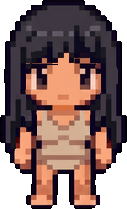
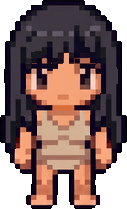
fix(char): 긴 생머리 2차 - 앞머리 눈썹까지 + 후면 밑단 (누적 5441px) (sw v269)
1차(06ec8c6)는 절반만 고쳤다. 대표: "거의 변화가 없다, 내가 말한 부분 그대로다."
실측하니 정면 2437px / 후면 1794px 가 남아 있었다. 왜 못 되살렸는지 사유별로 갈랐다
(char/diag_blocked.py).

★두 가지 원인:
1. **몸 외곽선 오탐** - 남은 후보 2437px 중 1971px 이 팔·다리·발 윤곽선이었다.
   원본 시트의 몸 외곽선도 검정이라 '밝기 < 107' 조건만으로는 머리카락과 구분이 안 된다.
2. **KEEP(얼굴 앞면)이 앞머리를 막고 있었다** - 긴 생머리는 앞머리가 눈썹까지 내려오는
   스타일인데, 빡빡이 얼굴을 지키려고 만든 규칙이 그 스타일을 잘라내고 있었다.
   세미리프컷 정면 뒷머리와 같은 구조의 문제다.

조치 = 조건 하나로 둘 다 해결:
  **base 가 그 자리에 어두운 픽셀(밝기<70)을 그리면 손대지 않는다.**
  - 몸 외곽선 오탐이 걸러진다 (base 가 이미 그리므로 헤어가 다시 그릴 이유가 없다)
  - 눈·눈썹·입이 자동으로 보호된다 → 그래서 KEEP 을 열어도(--open-keep) 안전하다
  실제로 눈 깨짐 없이 앞머리가 눈썹까지 내려왔다(7-30 눈알 깨짐 회귀와 다름).
  --passes N: 되살린 헤어에 붙은 다음 줄이 또 조건을 통과한다. 3회로 수렴.

결과: 정면 +612 후면 +1156 (1차 포함 누적 5441px). 3열 복제로 통일, 내부 구멍 8px,
썸네일 재생성. 좌·우는 대표가 손본 상태 그대로 두었다.

diff --git a/index.html b/index.html
@@ -1,5 +1,5 @@
 <!DOCTYPE html>
-<!-- cache-bust: v20260731006 -->
+<!-- cache-bust: v20260731007 -->
 <html lang="ko">
 <head>
 <meta charset="UTF-8">
@@ -2041,7 +2041,7 @@ window.CHAR_ITEMS = [
   { id: 'shoes_black', slot: 'shoes', body: 'human', name: '검정 러닝화', price: 0, sheet: 'char/items/shoes_black.png', thumb: 'char/items/shoes_black_thumb.png' }
 ];
 // 아이템 이미지 캐시버전 — 아이템 시트/썸네일 바꿀 때마다 올리면 SW 캐시 무시하고 새로 받음
-window._ITEM_V = 85;
+window._ITEM_V = 86;
 window._iv = function (u) { return u ? (u + (u.indexOf('?') < 0 ? '?v=' : '&v=') + (window._ITEM_V || 1)) : u; };
 window.CHAR_FREE = ['hair_short', 'top_tee', 'mask_simple'];
 window.CHAR_SHAPES = {

diff --git a/sw.js b/sw.js
@@ -1,7 +1,7 @@
 // 배포마다 이 버전을 올려야 자동 새버전 적용(새로고침)이 동작함
-const CACHE_NAME = 'murpy-v268';
-const STATIC_CACHE = 'murpy-static-v268';
-const CDN_CACHE = 'murpy-cdn-v268';
+const CACHE_NAME = 'murpy-v269';
+const STATIC_CACHE = 'murpy-static-v269';
+const CDN_CACHE = 'murpy-cdn-v269';
 // 이미지 캐시는 버전 안 붙임 → 코드/HTML 배포해도 유지(URL이 곧 버전)
 const IMG_CACHE = 'murpy-img';
 

diff --git a/char/diag_blocked.py b/char/diag_blocked.py
@@ -1,0 +1,87 @@
+# -*- coding: utf-8 -*-
+"""원본에 있는데 아직 못 되살린 머리카락이 **무엇에 막혀 있는지** 사유별로 가른다.
+
+복원 조건은 4개다. 어느 조건이 얼마나 막고 있는지 알아야 뭘 풀지 정할 수 있다.
+  ① KEEP(얼굴 앞면·귀 보호)   ② 기존 헤어에서 떨어져 있음   ③ 밝기 상한   ④ 이미 있음
+
+    python char/diag_blocked.py hair_f_long.png human_f 0 1
+"""
+import os
+import sys
+
+import numpy as np
+from PIL import Image, ImageDraw, ImageFont
+from scipy import ndimage
+
+sys.path.insert(0, os.path.dirname(os.path.abspath(__file__)))
+from base_regions import regions as base_regions   # noqa: E402
+from build_hair_layer import (BALD_M, BALD_F, CW, CH, ALPHA_BIN,   # noqa: E402
+                              Norm, load, pad_img, binarize)
+from restore_from_source import SOURCE, is_skin, hair_lum_max, GROW   # noqa: E402
+
+HERE = os.path.dirname(os.path.abspath(__file__))
+ROWS = ["정면", "후면", "좌", "우"]
+BASEW = {"human": "walk.png", "human_f": "walk_female.png"}
+BALD = {"human": BALD_M, "human_f": BALD_F}
+SCALE = 5
+
+
+def main():
+    name, body = sys.argv[1], sys.argv[2]
+    rows = [int(x) for x in sys.argv[3:]] or [0, 1]
+    walk = np.asarray(Image.open(os.path.join(HERE, BASEW[body])).convert("RGBA")).astype(int)
+    cur = np.asarray(Image.open(os.path.join(HERE, "items", name)).convert("RGBA")).astype(int)
+    norm = Norm(load(BALD[body]))
+    src_pad = pad_img(load(SOURCE[name]))
+    lum = hair_lum_max(cur)
+    print(f"■ {name}  머리색 밝기상한 {lum:.0f}")
+
+    tiles = []
+    for r in rows:
+        worn = binarize(norm.cell(src_pad, r, 0))
+        wm = ((worn[:, :, 3] >= ALPHA_BIN) & ~is_skin(worn)
+              & (worn[:, :, :3].mean(axis=2) < lum))
+        bc = walk[r * CH:(r + 1) * CH, 0:CW]
+        hc = cur[r * CH:(r + 1) * CH, 0:CW]
+        h = hc[:, :, 3] >= ALPHA_BIN
+        _must, keep = base_regions(bc, r, BASEW[body], 0)
+        near = ndimage.binary_dilation(h, np.ones((3, 3), bool), iterations=GROW)
+
+        missing = wm & ~h
+        by_keep = missing & keep
+        by_far = missing & ~keep & ~near
+        ok = missing & ~keep & near
+        print(f"\n  {ROWS[r]}  아직 없는 머리카락 {int(missing.sum())}px")
+        print(f"    ① KEEP(얼굴·귀)에 막힘        {int(by_keep.sum()):5d}px")
+        print(f"    ② 기존 헤어에서 떨어져 있음    {int(by_far.sum()):5d}px")
+        print(f"    ③ 조건 통과인데 남음(재적용요)  {int(ok.sum()):5d}px")
+
+        vis = bc.copy()
+        vis[h] = hc[h]
+        vis[by_far] = [255, 160, 0, 255]
+        vis[by_keep] = [255, 0, 255, 255]
+        vis[ok] = [0, 255, 90, 255]
+        tiles.append((f"{ROWS[r]}", vis))
+
+    pad, lbl = 8, 26
+    canvas = Image.new("RGB", ((CW + pad) * len(tiles) + pad, CH + lbl + pad * 2), (248, 248, 248))
+    for i, (_t, a) in enumerate(tiles):
+        canvas.paste(Image.fromarray(a.astype(np.uint8), "RGBA").convert("RGB"),
+                     (pad + i * (CW + pad), lbl + pad))
+    big = canvas.resize((canvas.width * SCALE, canvas.height * SCALE), Image.NEAREST)
+    d = ImageDraw.Draw(big)
+    try:
+        font = ImageFont.truetype("C:/Windows/Fonts/malgunbd.ttf", 30)
+    except OSError:
+        font = ImageFont.load_default()
+    for i, (t, _a) in enumerate(tiles):
+        d.text(((pad + i * (CW + pad)) * SCALE, 6), t, fill=(20, 20, 20), font=font)
+    d.text((10, big.height - 34), "마젠타=얼굴·귀 보호에 막힘  주황=헤어에서 떨어짐  초록=통과",
+           fill=(90, 90, 90), font=font)
+    p = os.path.join(HERE, "_diag", f"blocked_{name}")
+    big.save(p)
+    print(f"\n-> {p}")
+
+
+if __name__ == "__main__":
+    main()

diff --git a/char/restore_from_source.py b/char/restore_from_source.py
@@ -40,6 +40,10 @@ BALD = {"human": BALD_M, "human_f": BALD_F}
 GROW = 2          # 기존 헤어에서 이만큼 안에 붙어 있는 것만 되살린다
 CLOSE = 3         # 실루엣 안쪽으로 파인 자리만 (0이면 끔). --close 로 바꾼다
 ROWSEL = []       # 특정 방향만 (--rows 0,1). 비면 전 방향
+BASE_DARK = 70    # base 가 이보다 어두우면 외곽선·이목구비 → 손대지 않는다
+PASSES = 1        # 반복 횟수. 되살린 헤어에 붙은 다음 줄이 또 조건을 통과한다 (--passes)
+OPEN_KEEP = False  # 정면 앞머리처럼 KEEP 이 스타일을 막을 때 (--open-keep).
+#                    base_dark 가 눈·눈썹·입을 대신 지키므로 열어도 안전하다
 
 SOURCE = {
     "hair_f_long.png": os.path.join(NUKKI, "여자 검정생머리_clean-Photoroom.png"),
@@ -91,13 +95,22 @@ def run(name, body, apply=False, check=None):
               & (worn[:, :, :3].mean(axis=2) < lum_max))
         got = 0
         for c in range(3):
+          for _p in range(PASSES):
             bc = walk[r * CH:(r + 1) * CH, c * CW:(c + 1) * CW]
             hc = out[r * CH:(r + 1) * CH, c * CW:(c + 1) * CW]
             h = hc[:, :, 3] >= ALPHA_BIN
             _must, keep = base_regions(bc, r, BASEW[body], c)
+            if OPEN_KEEP:
+                keep = np.zeros_like(keep)         # base_dark 가 이목구비를 대신 지킨다
 
+            # ★★base 가 그 자리에 어두운 픽셀을 그린다면 건드리지 않는다.
+            #   원본 시트의 '몸 외곽선'도 검정이라 밝기 조건만으로는 머리카락과 구분이 안 된다
+            #   (실측: 남은 후보 2437px 중 1971px 이 팔·다리·발 윤곽선이었다).
+            #   이 조건 하나로 ①몸 윤곽선 오탐 ②눈·눈썹·입 훼손 을 동시에 막는다 —
+            #   base 가 이미 같은 자리에 그리므로 헤어가 다시 그릴 이유가 없다.
+            bdark = (bc[:, :, 3] >= ALPHA_BIN) & (bc[:, :, :3].mean(axis=2) < BASE_DARK)
             near = ndimage.binary_dilation(h, np.ones((3, 3), bool), iterations=GROW)
-            add = wm & ~h & ~keep & near           # 원본에 있고·우리엔 없고·얼굴귀 아니고·헤어에 붙음
+            add = wm & ~h & ~keep & near & ~bdark
             # ★'붙어 있음'만으론 머리 둘레가 통째로 부푼다(실측 과잉 3451~4670px).
             #   원본 머리는 base 두상보다 크게 그려져 있기 때문이다.
             #   닫힘(closing)으로 **실루엣 안쪽으로 파인 자리(노치·틈)** 만 남긴다.
@@ -142,11 +155,14 @@ def main():
         print(__doc__)
         return
     check = sys.argv[sys.argv.index("--check") + 1] if "--check" in sys.argv else None
-    global CLOSE, ROWSEL
+    global CLOSE, ROWSEL, PASSES, OPEN_KEEP
     if "--close" in sys.argv:
         CLOSE = int(sys.argv[sys.argv.index("--close") + 1])
     if "--rows" in sys.argv:
         ROWSEL = [int(x) for x in sys.argv[sys.argv.index("--rows") + 1].split(",")]
+    if "--passes" in sys.argv:
+        PASSES = int(sys.argv[sys.argv.index("--passes") + 1])
+    OPEN_KEEP = "--open-keep" in sys.argv
     run(sys.argv[1], sys.argv[2], "--apply" in sys.argv, check)
 
 
